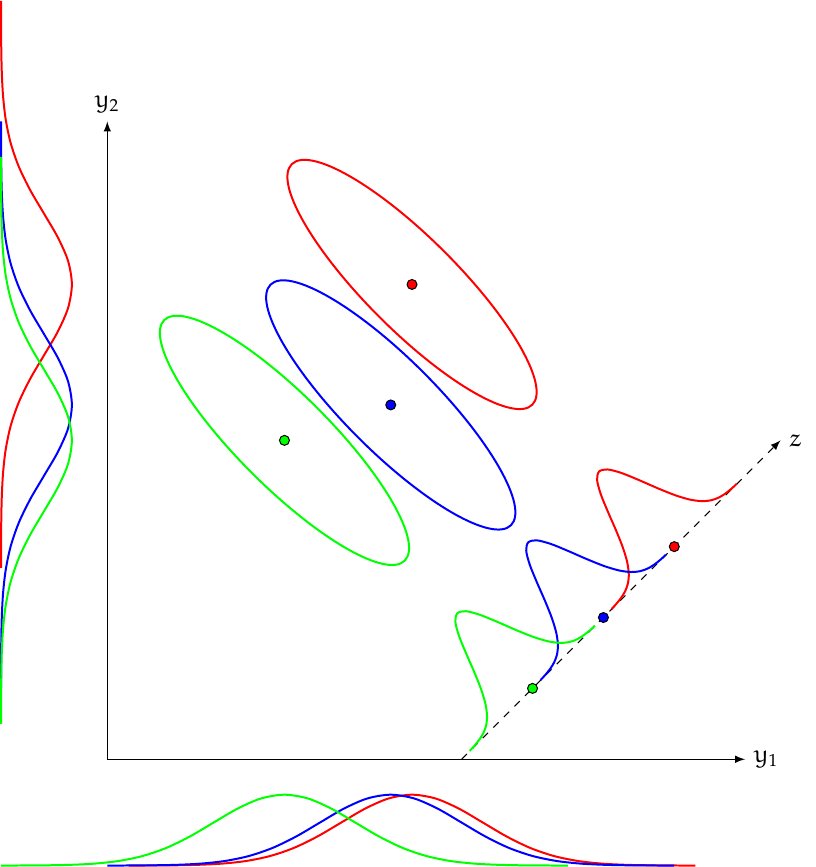
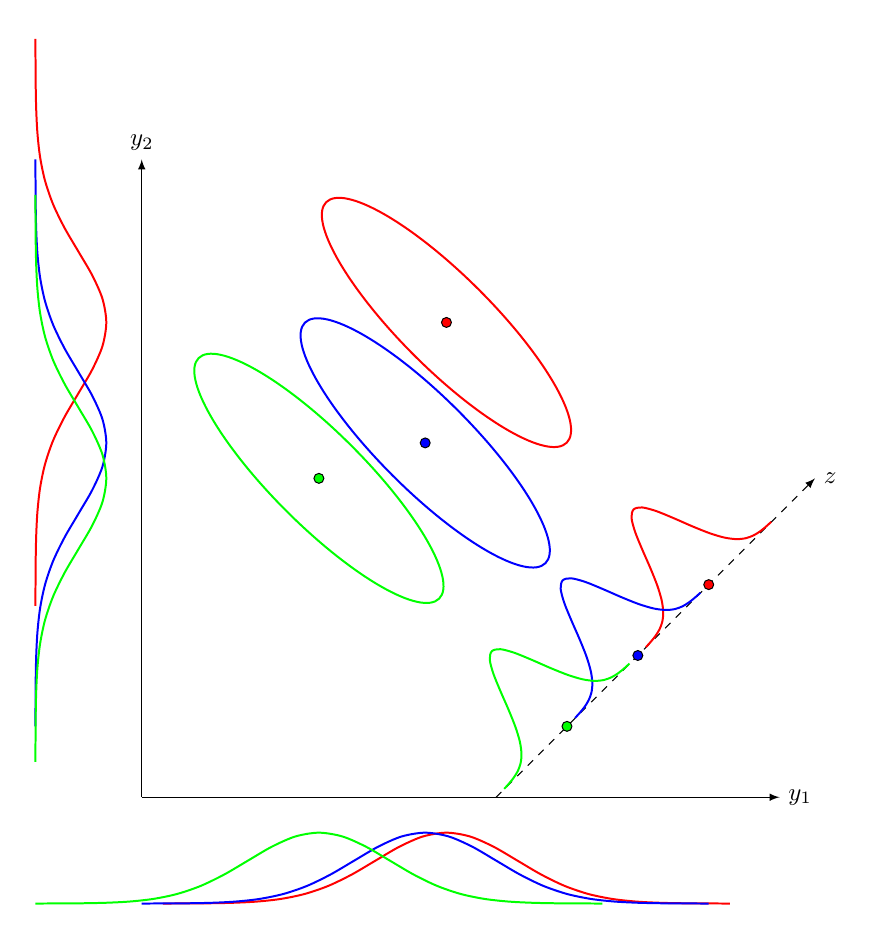
Fix excess of borders.

diff --git a/README.md b/README.md
@@ -675,7 +675,9 @@ in on <http://www.leg.ufpr.br/~walmes/tikz/> (updated less frequently).
 
 }
 
-\end{tikzpicture}
+\draw[draw = none] (-2, -2) rectangle (10.25, 11.25);
+
+\end{tikzpicture}%
 ```
 ****
 
@@ -6141,7 +6143,9 @@ in on <http://www.leg.ufpr.br/~walmes/tikz/> (updated less frequently).
 
 \end{scope}
 
-\end{tikzpicture}
+% \draw[thick, red] (-3, -7) rectangle (5.5, 1);
+
+\end{tikzpicture}%
 ```
 ****
 
